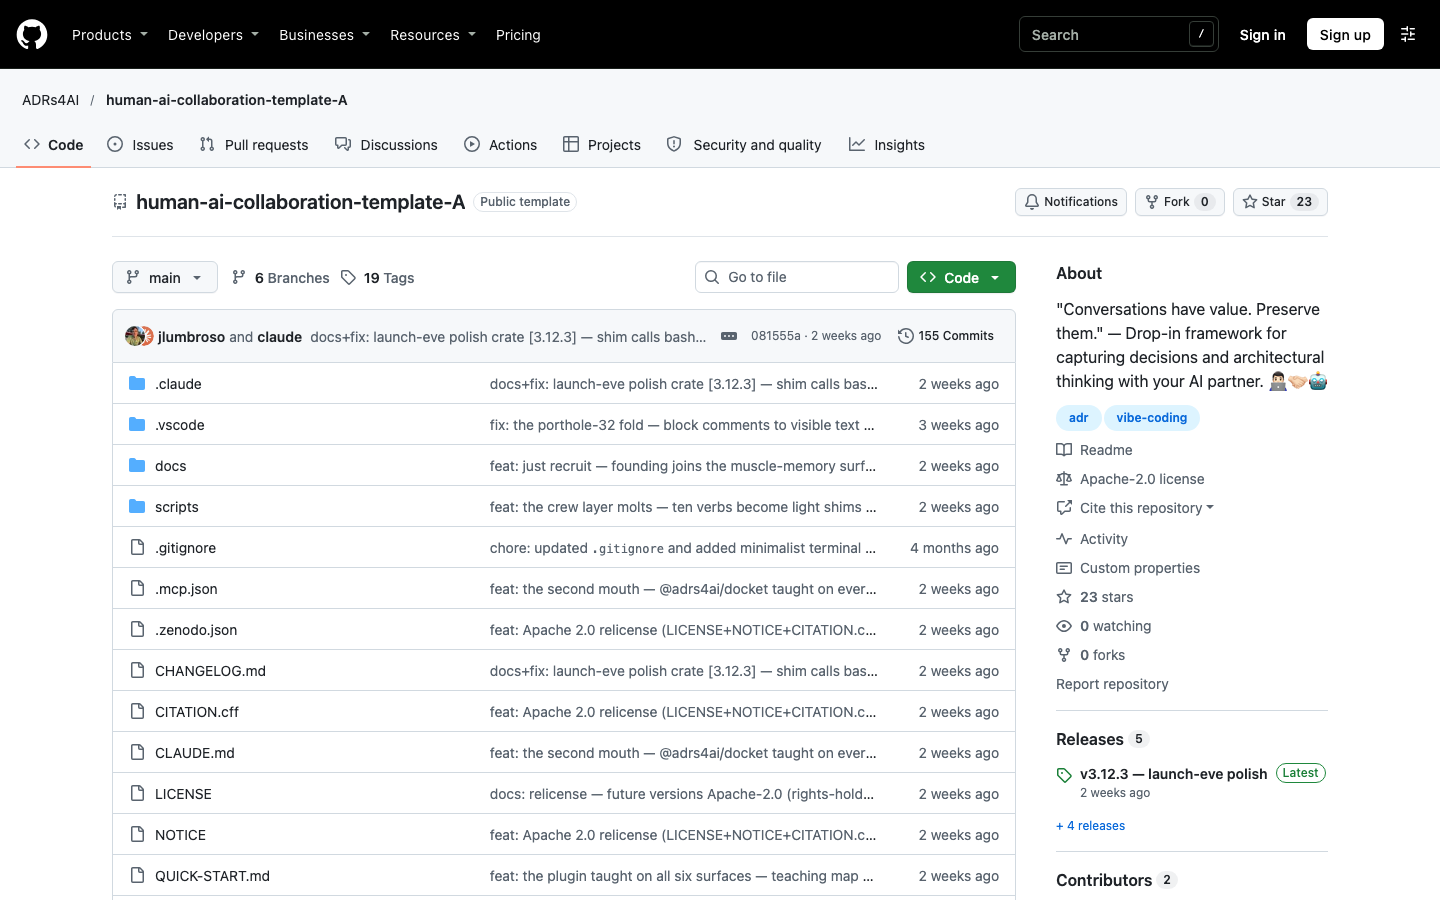
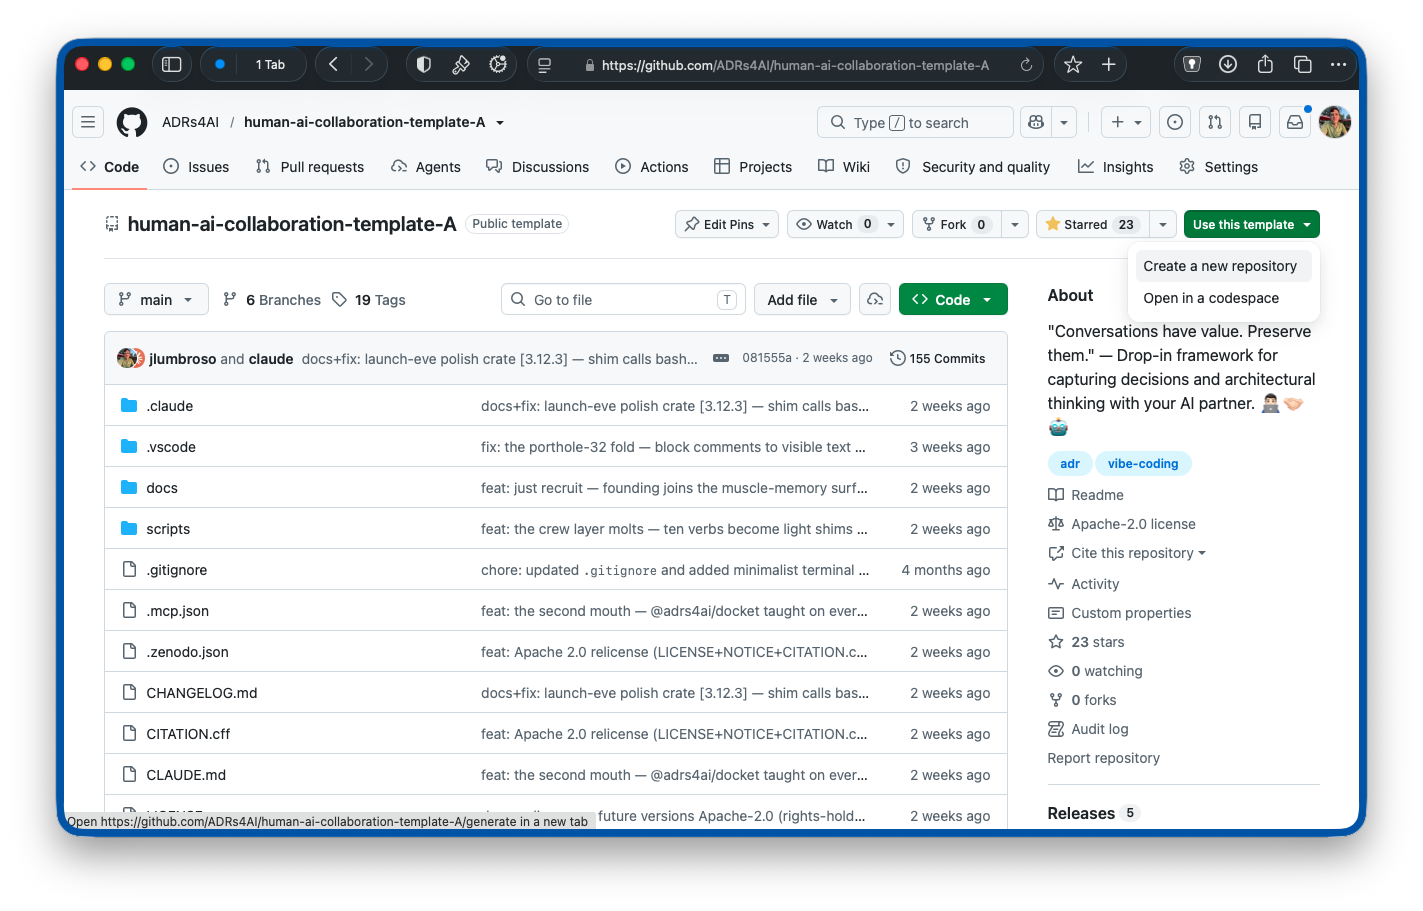
feat: his seven mac-native shots wired — signup form, logged-in use-this-template (menu open), fixture explorer, his-fixture QST rendered in the real extension (pause-and-ask visible), brew/claude verify states, terminals palette; linux pack shots retained where unique (installed list, numbered call

diff --git a/content.en/docs/03-first-project.md b/content.en/docs/03-first-project.md
@@ -10,6 +10,10 @@ steps:
       a few steps) its live website all live. If you already have an
       account, enter your username below and skip to P2.
     verify: "you can log in at github.com, and your username is saved below (it personalizes the rest of this guide)"
+    media:
+      screenshot: shots/gh-signup.png
+      alt: "GitHub's signup form with email, password, and username fields"
+      caption: "The signup form (in a private browser window — what a new account sees)." 
   - id: gh-login
     title: "Log the tools in"
     minutes: 2
@@ -31,6 +35,8 @@ steps:
     requires: [gh-signup]
     media:
       screenshot: shots/use-template-button.png
+      alt: "The template repository page with the green Use this template button open, showing Create a new repository"
+      caption: "The green button, top right — and its menu's **Create a new repository**." 
   - id: clone-open
     title: "Clone it, open it"
     minutes: 3
@@ -41,9 +47,9 @@ steps:
     verify: "VS Code shows the project files on the left; `ls` in its terminal shows `CLAUDE.md`"
     requires: [use-template, setup-vscode]
     media:
-      screenshot: shots/project-files.png
-      alt: "VS Code Explorer showing CLAUDE.md, README.md, and docs/adr with example Markdown records"
-      caption: "A project is a folder: its files in Explorer, `CLAUDE.md` and `docs/adr/` included. (A small illustration workspace, not the full template clone.)" 
+      screenshot: shots/vscode-first-open.png
+      alt: "VS Code Explorer showing a project folder with CLAUDE.md and docs/adr containing decision records"
+      caption: "A project is a folder: Explorer shows `CLAUDE.md` and `docs/adr/`. (Demonstration records; your clone has the full template.)" 
   - id: recruit
     title: "Recruit your collaborator — mission and project, one paste"
     minutes: 12
@@ -67,9 +73,9 @@ steps:
     verify: "your collaborator answered with *QST cards*, not code — each carrying options, a recommendation, and an *If wrong:* line"
     requires: [recruit]
     media:
-      screenshot: shots/open-question-panel.png
-      alt: "ADRs for AI displaying a deployment question, its two alternatives, recommendation, confidence, If-wrong line, and a blank answer field"
-      caption: "The real extension rendering a question like yours: options, recommendation, confidence, the *If wrong* line — and the answer field waiting. (Illustration records, captured in the published extension.)" 
+      screenshot: shots/adr-qst-rendered.png
+      alt: "ADRs for AI rendering a deployment question: options A and B, the recommendation with confidence and If-wrong line, and a blank answer field"
+      caption: "A question like yours, rendered: options, the recommendation card with its *If wrong* line — and the answer field waiting. (Demonstration records in the real extension.)" 
   - id: first-answers
     title: "Your first answers"
     minutes: 12
@@ -125,6 +131,10 @@ steps:
       your collaborator, not a required step.
     verify: "Terminals: Run opens your collaborator's terminal(s) automatically"
     requires: [recruit]
+    media:
+      screenshot: shots/terminals-run.png
+      alt: "The VS Code command palette showing the Terminals: Run command"
+      caption: "⌘-shift-P → **Terminals: Run**." 
 ---
 
 # Chapter 3 — Your first project
@@ -145,7 +155,6 @@ personalizes every command below:
 
 {{< var-input github-username "Your GitHub username" >}}
 
-<!-- screenshot: gh-signup -->
 {{< /step >}}
 
 {{< step gh-login >}}
@@ -169,10 +178,8 @@ follow the code it shows you.
 {{< step use-template >}}
 Go to
 [github.com/ADRs4AI/human-ai-collaboration-template-A](https://github.com/ADRs4AI/human-ai-collaboration-template-A),
-press the green **Use this template** button (top right — it appears
-once you're logged in; the screenshot below shows the page before
-login, where the green **Code** button sits in its place) → *Create a
-new repository* → name it — `wordle-with-records` is the name this
+press the green **Use this template** button (top right) →
+**Create a new repository** → name it — `wordle-with-records` is the name this
 guide uses below, but it's yours:
 
 {{< var-input project-name "Your repository name" "wordle-with-records" >}}
@@ -358,7 +365,6 @@ launches at once. Tomorrow: `code .`, one Terminals: Run, and the crew
 is back — reading the records you both wrote today, remembering *why*
 everything is the way it is.
 
-<!-- screenshot: terminals-run -->
 {{< /step >}}
 
 That's the guide — and you're among the first to walk it: your stall

diff --git a/content.en/docs/02-setup.md b/content.en/docs/02-setup.md
@@ -24,6 +24,10 @@ steps:
     verify: "`claude --version` answers, and `claude` opens a session that responds"
     requires: [setup-terminal]
     platforms: { macos: full, windows: tentative }
+    media:
+      screenshot: shots/claude-first-run.png
+      alt: "A terminal with a fresh Claude Code session open, showing the welcome prompt"
+      caption: "A fresh session's welcome — model, folder, an empty prompt waiting." 
   - id: setup-homebrew
     title: "Install Homebrew"
     minutes: 8
@@ -37,6 +41,10 @@ steps:
     verify: "open a NEW terminal window; `brew --version` answers"
     requires: [setup-terminal]
     platforms: { macos: full, windows: tentative }
+    media:
+      screenshot: shots/brew-done.png
+      alt: "A terminal where brew --version answers with a version number"
+      caption: "The verify state: `brew --version` answers." 
   - id: setup-python-asdf
     title: "Python, via asdf"
     minutes: 8
@@ -212,7 +220,6 @@ seconds, and Anthropic's
 [troubleshooting page](https://code.claude.com/docs/en/troubleshoot-install)
 matches errors to fixes.
 
-<!-- screenshot: claude-first-run -->
 {{< /step >}}
 
 ## Where Claude Code lives — and why this guide picks the terminal
@@ -279,8 +286,6 @@ It will ask for your Mac password (typing shows nothing — that's
 normal) and may install Apple's Command Line Tools first. At the end it
 prints two `echo … >> ~/.zprofile` lines under "Next steps" — paste
 those too.
-
-<!-- screenshot: brew-done -->
 
 > **[Windows — tentative]** The closest equivalent is `winget` (built
 > into Windows 11); `choco` also works. Tool names below mostly match.
